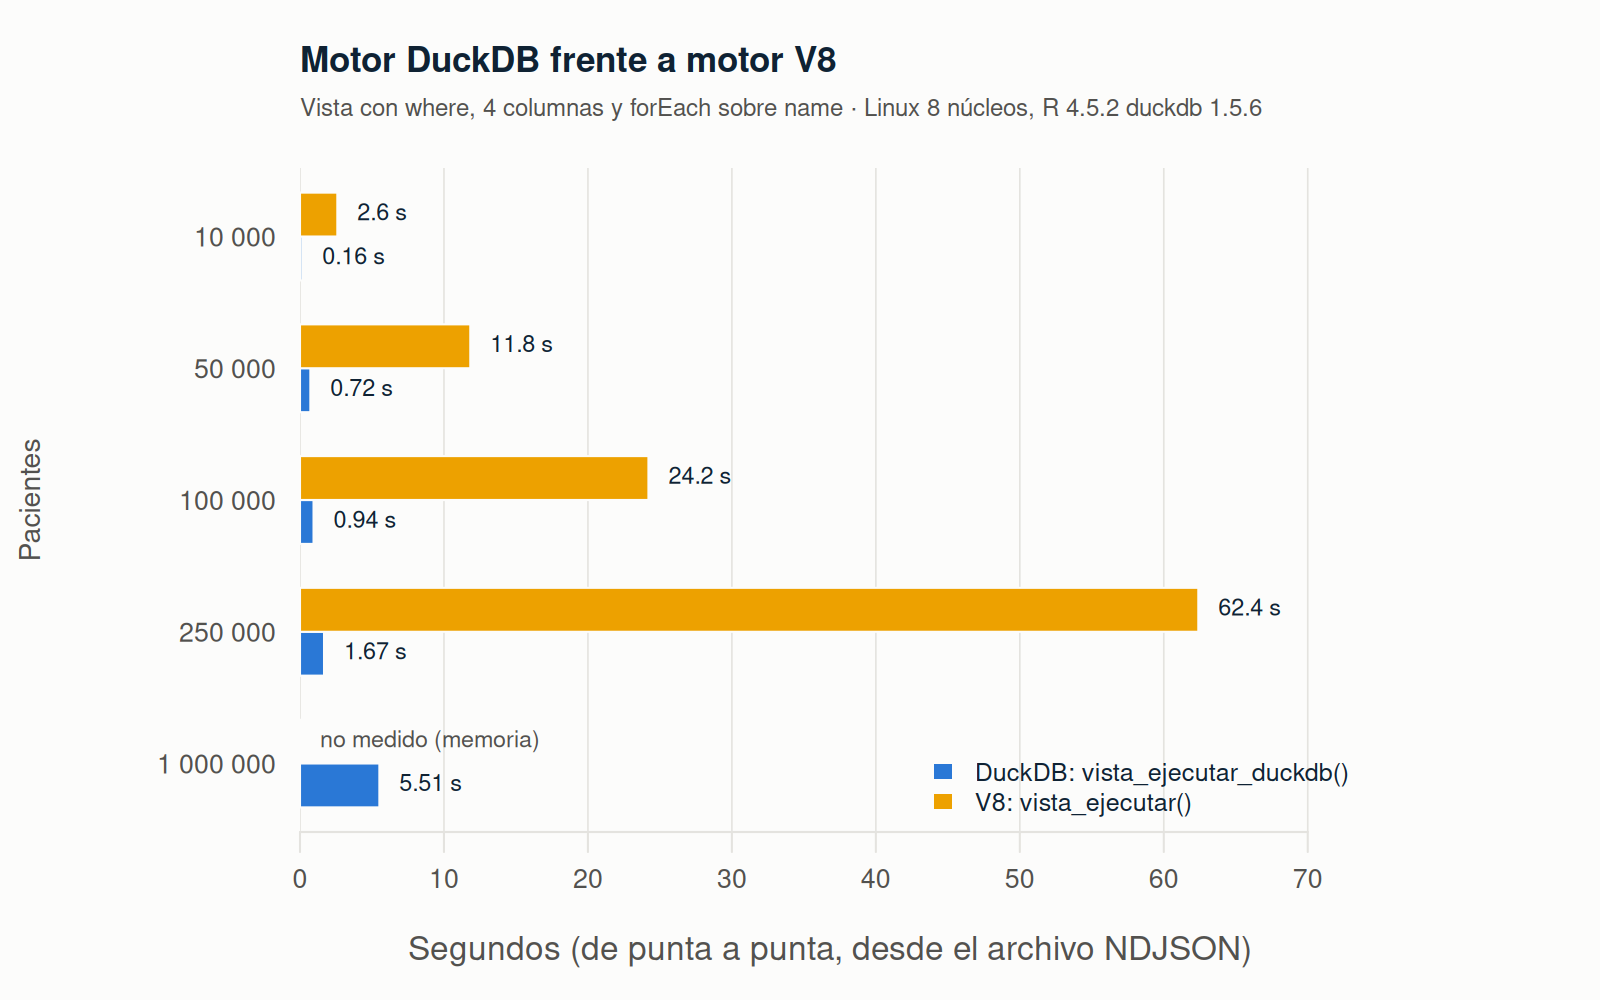
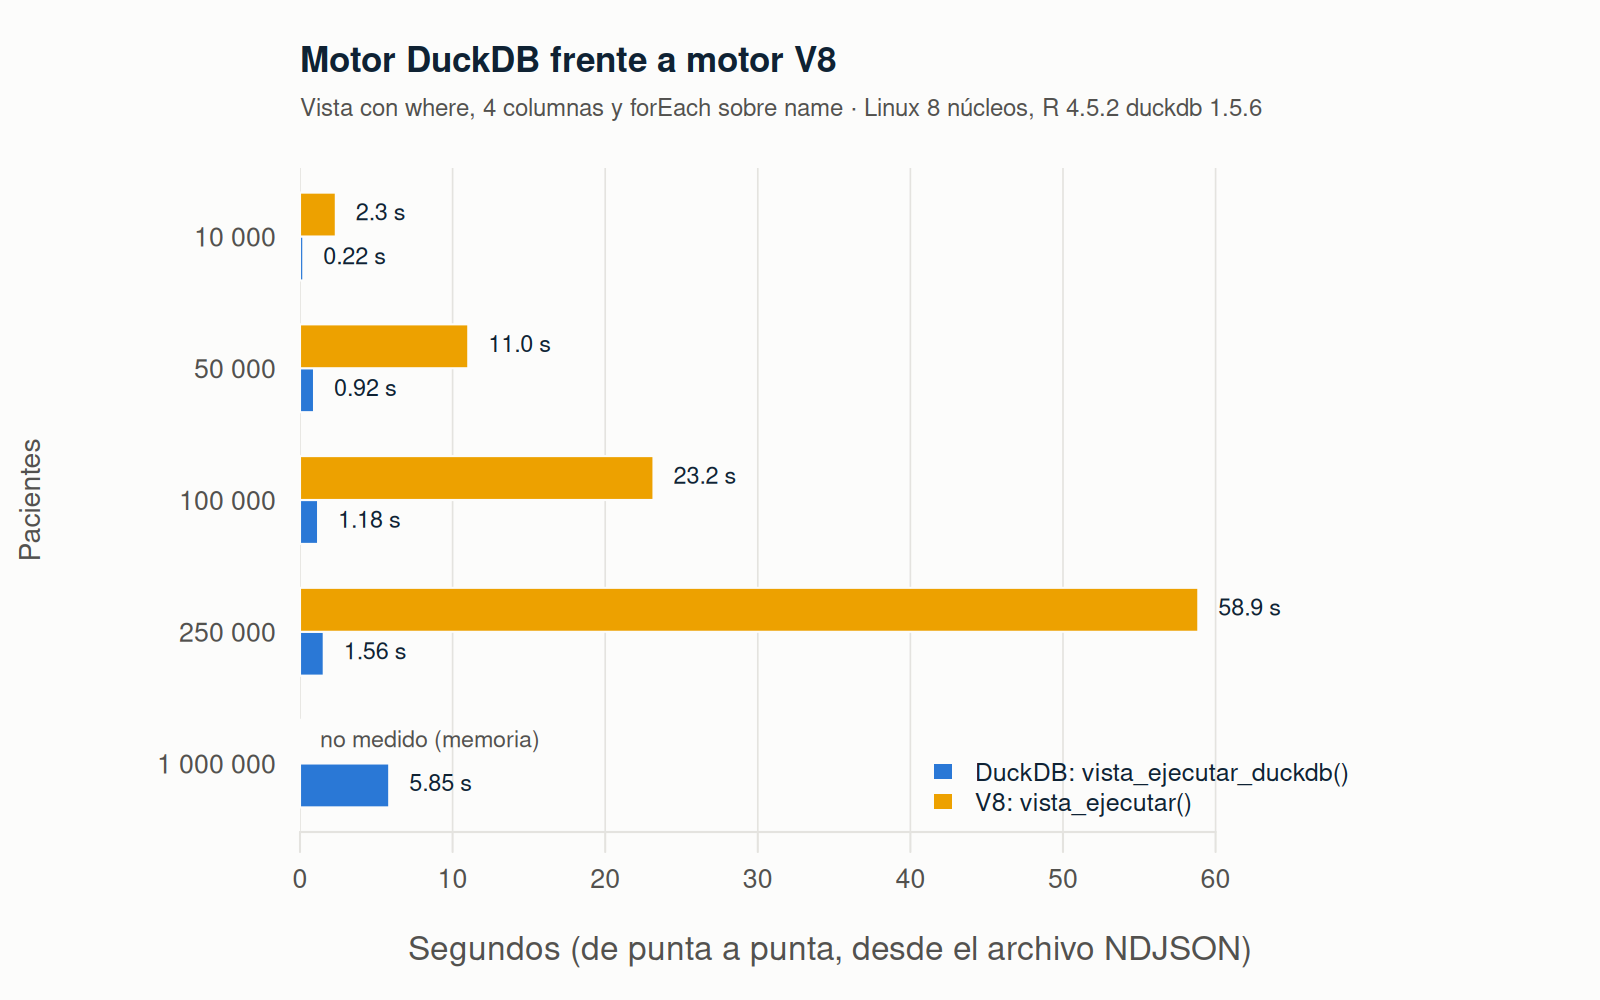
Inventario de FHIRPath del motor DuckDB, nueva medición y documentación
- data-raw/motor-duckdb.md: inventario de FHIRPath N1 y del perfil
  shareable, semántica, resultado diferido, conformidad (7 de 11
  experimentales) y rendimiento.
- README, viñeta de servidores y volúmenes y figura de rendimiento.

diff --git a/data-raw/motor-duckdb.md b/data-raw/motor-duckdb.md
@@ -1,6 +1,7 @@
-# Motor DuckDB para fhirviews: informe del prototipo
+# Motor DuckDB para fhirviews: informe
 
-Rama `motor-duckdb`. Código en `R/sql.R`, pruebas en
+Código en `R/sql.R` (estructura del `ViewDefinition` y ejecución) y
+`R/sql-fhirpath.R` (traductor de FHIRPath), pruebas en
 `tests/testthat/test-sql.R`, medición en `data-raw/motor-duckdb.R` (resultados
 en `data-raw/motor-duckdb.csv`).
 
@@ -13,13 +14,21 @@ en `data-raw/motor-duckdb.csv`).
 * **Conformidad: 133 de 133 pruebas shareable** del banco oficial
   (`vista_conformidad(motor = "duckdb")`), las mismas que el motor V8,
   incluidos `repeat`, `%rowIndex`, `unionAll` anidado y los errores
-  esperados. De las 11 experimentales pasan 3 (las de `join()`); fallan las 8
-  de `lowBoundary()`/`highBoundary()`, que no se traducen.
-* **Rendimiento:** con 50 000 pacientes en NDJSON, 0,6 s frente a 10,8 s de
-  `vista_ejecutar()` (17 veces más rápido); con 250 000, 1,3 s frente a 55 s
-  (41 veces); con 1 000 000 (271 MB, 1,8 millones de filas), 4,5 s y 1,3 GB
-  de memoria máxima del proceso, un volumen que el motor V8 no alcanza en
+  esperados, y **7 de las 11 experimentales**, también las mismas que V8
+  (fallan las de `lowBoundary()`/`highBoundary()` de decimales y de fechas y
+  horas con precisión de día; ver más abajo).
+* **FHIRPath:** traduce todo lo que exige el perfil shareable y la mayor
+  parte de FHIRPath N1 (inventario abajo), con la semántica de fhirpath.js.
+  Una prueba diferencial compara los dos motores con unas 110 expresiones con
+  casos límite (fechas parciales y zonas horarias, Unicode, tipos mezclados) y
+  con las vistas de todas las viñetas, y otras 19 comprueban que lo dudoso da
+  error.
+* **Rendimiento:** con 250 000 pacientes en NDJSON, 1,6 s frente a 59 s de
+  `vista_ejecutar()` (38 veces más rápido); con 1 000 000 (271 MB,
+  1,8 millones de filas), 5,8 s, un volumen que el motor V8 no alcanza en
   este portátil.
+* **Resultado diferido:** `vista_ejecutar_duckdb(..., diferido = TRUE)`
+  devuelve una tabla de dplyr sobre DuckDB.
 * Lo que no se puede traducir da un error de clase `fhirviews_error_sql` que
   nombra la expresión y sugiere `vista_ejecutar()`.
 * **Recomendación: incorporarlo** como motor opcional y experimental (DuckDB
@@ -41,9 +50,9 @@ de tres clases: colección (`JSON[]`, vacía si no hay valores), un valor JSON
 `DOUBLE`). La navegación `a.b` es `json_extract` sobre cada elemento, y los
 arreglos se aplanan; `where()`, `select()`, `exists(criterio)` y `all()` son
 `list_filter`/`list_transform` con una lambda cuyo foco es el elemento. Las
-comparaciones convierten al tipo del literal (texto, número, lógico); si
-ambos lados son rutas, comparan como números cuando los dos lo son y como
-texto en otro caso. Las fechas se comparan como texto ISO 8601.
+comparaciones miran el tipo de cada lado (del literal, del modelo FHIR o del
+valor JSON) y siguen las reglas de fhirpath.js descritas en
+[Semántica](#semántica-cómo-se-asegura-el-mismo-resultado-que-fhirpathjs).
 
 **Estructura del ViewDefinition como listas de filas.** Cada `select` se
 traduce en una expresión que da la lista de filas (`STRUCT` con una clave por
@@ -79,60 +88,174 @@ devuelve varios valores y un `where` que no devuelve un lógico llaman a
 `error()` de DuckDB, con un mensaje en español; llegan a R como
 `fhirviews_error_vista`.
 
-## Cobertura de FHIRPath
+## Inventario de FHIRPath
 
-| Se traduce | No se traduce (error que sugiere `vista_ejecutar()`) |
-|---|---|
-| Navegación por campos, `Patient.x`, `name[0]`, `$this`, `%resource` | `ofType()` con un tipo que el elemento de elección no admite |
-| `where`, `select`, `exists`, `all`, `empty`, `hasValue`, `count` | `lowBoundary`, `highBoundary`, `precision` |
-| `first`, `last`, `tail`, `skip`, `take`, `single`, `distinct` | `resolve`, `memberOf`, `conformsTo`, `trace`, `children`, `descendants` |
-| `not`, `iif`, `and`, `or`, `xor`, `implies` | Cantidades con unidades (`5 'mg'`) y aritmética de fechas |
-| `=`, `!=`, `~`, `!~`, `<`, `>`, `<=`, `>=` | `$index`, `$total`, `aggregate`, `repeat()` como función |
-| `+`, `-`, `*`, `/`, `div`, `mod`, `&`, `\|`, `in`, `contains` | `ofType()` de tipos complejos fuera de un elemento de elección |
-| Elementos de elección sin `ofType()` (`value`, `effective`, `onset`...) | `toDate`, `toDateTime`, `toQuantity`, `convertsTo*` |
-| `ofType` (elemento de elección o filtro de primitivos), `is`, `as` | |
-| `extension(url)`, `getResourceKey()`, `getReferenceKey([tipo])` | |
-| `join`, `startsWith`, `endsWith`, `contains`, `matches`, `upper`, `lower`, `trim`, `length`, `substring`, `replace`, `toString`, `toInteger`, `toDecimal` | |
-| Constantes de todos los tipos de `constant`, `%rowIndex`, literales de fecha | |
+Funciones y operadores de la especificación
+[FHIRPath N1 (2.0.0)](https://hl7.org/fhirpath/N1/), las que agrega FHIR R4
+y SQL on FHIR, y las de FHIRPath 3.0 que usa el banco (`lowBoundary()`,
+`highBoundary()`). La columna *shareable* marca lo que el perfil
+[*Shareable View Definition*](https://sql-on-fhir.org/ig/latest/StructureDefinition-ShareableViewDefinition.html)
+exige a toda implementación (literales, `=`, `!=`, `<`, `<=`, `>`, `>=`,
+`and`, `or`, `not()`, aritmética, `[]`, `exists()`, `empty()`,
+`extension()`, `first()`, `join()`, `lowBoundary()`, `highBoundary()`,
+`ofType()`, `where()`, `getResourceKey()` y `getReferenceKey()`).
 
-**Elementos de elección.** Al navegar a un nombre que en el modelo FHIR R4
-es un elemento de elección en algún recurso (`value`, `effective`, `onset`,
-`deceased`, `multipleBirth`...), se extraen a la vez, con un solo
-`json_extract` de varias rutas, el campo y todas sus variantes
-(`valueQuantity`, `valueString`...); los nombres salen de
-`choiceTypePaths` del modelo de fhirpath.js. `x.ofType(T)` sobre un elemento
-de elección es el campo `xT` solo si `T` es uno de sus tipos; en otro caso,
-o con un tipo complejo fuera de un elemento de elección, la traducción falla
-con `fhirviews_error_sql` en lugar de devolver vacío.
+Sí: se traduce y da lo mismo que fhirpath.js. Parcial: se traduce en los
+casos indicados y en los demás da error (nunca otro resultado). No: error
+`fhirviews_error_sql` al traducir.
 
-Diferencias semánticas conocidas frente a fhirpath.js (no afectan al banco):
+| Sección | Función u operador | Shareable | DuckDB |
+|---|---|:-:|---|
+| 5.1 Existencia | `empty()`, `exists([criterio])`, `count()` | sí | Sí |
+| | `all()`, `allTrue()`, `anyTrue()`, `allFalse()`, `anyFalse()` | | Sí |
+| | `subsetOf()`, `supersetOf()`, `distinct()`, `isDistinct()` | | Sí (los elementos complejos no se comparan: error) |
+| 5.2 Filtros | `where()` | sí | Sí |
+| | `select()` | | Sí |
+| | `ofType()` | sí | Parcial: elementos de elección, tipos del modelo y `boolean` |
+| | `repeat()` (función) | | No (el `repeat` del ViewDefinition sí) |
+| 5.3 Subconjuntos | `[i]` | sí | Sí |
+| | `first()` | sí | Sí |
+| | `single()`, `last()`, `tail()` | | Sí |
+| | `skip()`, `take()` | | Sí (número negativo: error, fhirpath.js usa `slice()`) |
+| | `intersect()`, `exclude()` | | Sí |
+| 5.4 Combinación | `union()`, `\|`, `combine()` | | Sí, conservando el orden |
+| 5.5 Conversión | `iif()` | | Sí |
+| | `toBoolean()`, `toInteger()`, `toDecimal()`, `toString()` y sus `convertsTo...()` | | Sí (`toString()` de elementos complejos: error) |
+| | `toDate()`, `toDateTime()`, `toTime()`, `toQuantity()` y sus `convertsTo...()` | | No |
+| 5.6 Texto | `startsWith()`, `endsWith()`, `contains()`, `substring()`, `indexOf()`, `length()`, `toChars()` | | Sí (caracteres fuera del plano básico: error) |
+| | `upper()`, `lower()` | | Sí (los ~500 caracteres que DuckDB convierte distinto, como `ß`: error) |
+| | `replace()` | | Sí (`$` en el reemplazo: error) |
+| | `matches()`, `replaceMatches()` | | Parcial: expresión regular literal sin construcciones que JavaScript y RE2 lean distinto (`\s`, grupos con nombre, referencias...) |
+| | `trim()`, `split()`, `join()` | sí (`join`) | Sí |
+| 5.7 Matemática | `abs()`, `ceiling()`, `floor()`, `round()`, `truncate()`, `sqrt()` | | Sí |
+| | `power()` | | Parcial: enteros con resultado exacto |
+| | `exp()`, `ln()`, `log()` | | No (libm y V8 pueden diferir en el último bit) |
+| 5.8 Árbol | `children()`, `descendants()` | | No |
+| 5.9 Utilidad | `trace()` | | Sí (no escribe nada) |
+| | `now()`, `today()`, `timeOfDay()` | | No |
+| 6.1 Igualdad | `=`, `!=` | sí | Sí (elementos complejos: error) |
+| | `~`, `!~` | | Sí con textos, lógicos y fechas; con números, no |
+| 6.2 Comparación | `<`, `<=`, `>`, `>=` | sí | Sí, con la regla de precisión de fechas y horas |
+| 6.3 Tipos | `is`, `as`, `is()`, `as()` | | Como `ofType()` |
+| 6.4 Colecciones | `in`, `contains` | | Sí |
+| 6.5 Lógica | `and`, `or`, `not()` | sí | Sí |
+| | `xor`, `implies` | | Sí |
+| 6.6 Aritmética | `+`, `-`, `*`, `/`, `div`, `mod` | sí | Sí con números y textos (`+`) |
+| | `&` | | Sí |
+| 6.6 Fechas | `fecha + cantidad` | | No |
+| Literales | texto, entero, decimal, lógico, `{}` | sí | Sí |
+| | `@fecha`, `@fechaThora`, `@Thora` | sí | Sí |
+| | cantidades (`5 'mg'`) | | No |
+| 7 Agregados | `aggregate()`, `$index`, `$total` | | No |
+| FHIR | `extension(url)` | sí | Sí |
+| | `hasValue()` | | Sí |
+| | `resolve()`, `memberOf()`, `conformsTo()`, `htmlChecks()` | | No |
+| SQL on FHIR | `getResourceKey()`, `getReferenceKey([tipo])` | sí | Sí |
+| FHIRPath 3.0 | `lowBoundary()`, `highBoundary()` | sí | Parcial: fechas, horas y fechas y horas con hora y zona; decimales y fechas y horas con precisión de día, no |
+| | `precision()` | | No |
+| Variables | `%resource`, `%rootResource`, `%rowIndex`, constantes | sí | Sí |
 
-* Las fechas y horas se comparan como texto: `birthDate > @1940-01-01` es
-  correcto con fechas de la misma precisión, pero `@2020` frente a
-  `@2020-05-01` no da vacío como en FHIRPath.
-* Los decimales son `DOUBLE` (0.1 + 0.2 no es exactamente 0.3).
-* `|` no conserva el orden de los elementos.
-* `~` solo ignora mayúsculas y espacios de los extremos.
-* Las extensiones de primitivos (`_birthDate`) no se ven.
+Antes de esta versión el motor no traducía los conjuntos (`union()`,
+`intersect()`...), `allTrue()` y afines, `indexOf()`, `replaceMatches()`,
+`split()`, `toChars()`, `toBoolean()`, `convertsTo...()`, las funciones
+matemáticas ni `lowBoundary()`/`highBoundary()`; y varias de las que sí (`toInteger()`, `substring()`, `replace()`, `|`, `iif()`, las
+comparaciones de fechas y entre tipos distintos) daban en casos límite un
+resultado distinto del de fhirpath.js sin avisar. La prueba diferencial
+nueva los encontró y se corrigieron.
+
+## Semántica: cómo se asegura el mismo resultado que fhirpath.js
+
+**Tipos del modelo FHIR.** Cada expresión traducida lleva el tipo FHIR que da
+el modelo R4 de fhirpath.js (`path2Type`, `choiceTypePaths`...), seguido al
+navegar como lo hace `fhirviews.tipo()`. Con él se eligen solo las variantes
+posibles de cada elemento de elección (`Observation.value` busca 11 campos,
+no los 50 de todos los recursos) y se sabe si un texto es un `string`, una
+fecha o una hora. Si el tipo no se conoce (por ejemplo, `extension.value`
+sin `ofType()`) y un texto parece una fecha, la consulta da error.
+
+**Igualdad y orden.** Como en fhirpath.js: valores de tipos distintos no son
+iguales (`'1' = 1` y `birthDate = '1970-06-15'` son falsos) y no se pueden
+ordenar (error); los números se comparan redondeados a 8 decimales
+(`0.1 + 0.2 = 0.3` es verdadero) y los enteros, como enteros; `~` entre
+textos pasa a mayúsculas y cambia los espacios de Unicode por espacios; los
+elementos complejos no se comparan (error).
+
+**Fechas y horas.** Se compara la forma canónica de cada valor (en UTC si
+tiene zona horaria) en la precisión común: si difieren, decide el orden; si
+coinciden y tienen la misma precisión, son iguales; si no, el resultado es
+vacío (`@2024 < @2024-06` no es verdadero ni falso). Segundos y milisegundos
+son la misma precisión, como en fhirpath.js, y otros números de decimales dan
+error. Dos casos dependen en fhirpath.js de la zona horaria del equipo y por
+eso solo se traducen si el resultado sería el mismo en cualquier zona (de
+−12 a +14 horas): una fecha con hora sin zona frente a una con zona, y una
+fecha sin hora frente a una fecha y hora. Así,
+`effective.ofType(dateTime) > @2024-03-01` da error con las observaciones
+cercanas a la medianoche de ese día; la forma segura es
+`effective.ofType(dateTime) > @2024-03-01T00:00:00Z`.
+
+**Conjuntos.** `|`, `union()`, `distinct()`, `intersect()`, `in`... usan una
+clave de igualdad por elemento (tipo y valor; números redondeados como en la
+igualdad; fechas con hora en UTC) y conservan el orden de la primera
+aparición, como fhirpath.js. Dos elementos complejos distintos no se pueden
+comparar con certeza (fhirpath.js los compara campo a campo): error.
+
+**Texto.** JavaScript cuenta los caracteres fuera del plano básico (emojis)
+como dos, así que `length()`, `substring()`, `indexOf()` y `toChars()` dan
+error con ellos. `upper()`, `lower()` y `~` dan error con los caracteres que
+DuckDB convierte distinto (`data-raw/mayusculas.R` los calcula recorriendo
+Unicode; una prueba revisa el plano básico hasta U+2FFF). `trim()` quita los
+mismos espacios que JavaScript. `matches()` y `replaceMatches()` traducen la
+expresión regular (con las banderas `su` de fhirpath.js) solo si usa
+construcciones que significan lo mismo en RE2; `\d`, `\w` y `\b` son ASCII
+en los dos.
+
+**Números.** Los decimales son `DOUBLE`, como los números de JavaScript.
+`toString()` escribe los números como JavaScript (`3.0` es `"3"`, salvo un
+literal decimal, que conserva su texto como en fhirpath.js). `round()`
+redondea las mitades hacia +∞ como `Math.round()`. Una columna sin tipo cuyos
+valores son todos enteros llega a R como entero, como en `vista_ejecutar()`.
+
+## Resultado diferido
+
+`vista_ejecutar_duckdb(archivos, vista, diferido = TRUE)` devuelve
+`dplyr::tbl(con, dplyr::sql(consulta))` (dplyr y dbplyr en Suggests): los
+filtros, agrupaciones y resúmenes de dplyr se traducen a SQL y se calculan en
+DuckDB sobre los archivos, sin traer las filas a R.
+
+```r
+casos <- vista_ejecutar_duckdb("exportacion/*.ndjson", vista, diferido = TRUE)
+casos |> dplyr::filter(sexo == "female") |> dplyr::count(canton) |> dplyr::collect()
+DBI::dbDisconnect(dbplyr::remote_con(casos))
+```
+
+Las columnas sin tipo deducible se resuelven al crear la tabla (una lectura
+de los datos); la conexión queda abierta mientras se use la tabla. Al hacer
+`collect()`, los elementos complejos llegan como texto JSON y las colecciones
+como listas de DuckDB.
 
 ## Conformidad
 
 ```
 vista_conformidad(motor = "duckdb")
 Banco de pruebas de SQL on FHIR (FHIR/sql-on-fhir.js@6677c20, 2026-07-09)
-fhirviews 0.1.0 · motor DuckDB 1.5.6
+fhirviews 0.2.0.9000 · motor DuckDB 1.5.6
 
-  experimental     3 de  11 aprobadas
+  experimental     7 de  11 aprobadas
   shareable      133 de 133 aprobadas
-  total          136 de 144 aprobadas
+  total          140 de 144 aprobadas
 ```
 
 Pasan todos los archivos shareable: basic (11), collection (4), combinations
 (6), constant (8), constant_types (14), fhirpath (9), fhirpath_numbers (1),
 fn_empty (1), fn_extension (2), fn_first (2), fn_oftype (2),
 fn_reference_keys (3), foreach (13), logic (3), repeat (19), row_index (9),
-union (10), validate (5), view_resource (3) y where (8). El motor V8 pasa
-7 de las 11 experimentales.
+union (10), validate (5), view_resource (3) y where (8). De las
+experimentales pasan las 3 de `join()` y 4 de `fn_boundary.json` (fecha y
+hora), las mismas que el motor V8. Las otras 4 esperan lo que fhirpath.js no
+da: `1.0.lowBoundary()` = 0.95 (la precisión del decimal se pierde al leer el
+JSON en los dos motores) y la zona +14:00/−12:00 en los límites de una fecha
+y hora con precisión de día (fhirpath.js no la agrega); el motor DuckDB da
+error en esos casos en lugar de copiar el resultado de fhirpath.js.
 
 ## Rendimiento
 
@@ -145,9 +268,17 @@ el mismo `data.frame` (comprobado con `all.equal()`).
 
 | Pacientes | NDJSON | Filas | DuckDB, tabla | DuckDB, `data.frame` | V8 (`fhir_recursos()` + `vista_ejecutar()`) |
 |---:|---:|---:|---:|---:|---:|
-| 50 000 | 13 MB | 89 180 | 0,65 s | 0,64 s | 10,8 s |
-| 250 000 | 67 MB | 444 942 | 1,16 s | 1,34 s | 55,4 s |
-| 1 000 000 | 271 MB | 1 781 318 | 4,43 s | 4,53 s | no medido |
+| 10 000 | 3 MB | 17 824 | 0,42 s | 0,22 s | 2,3 s |
+| 50 000 | 13 MB | 89 128 | 0,89 s | 0,92 s | 11,0 s |
+| 100 000 | 27 MB | 178 062 | 1,18 s | 1,18 s | 23,2 s |
+| 250 000 | 67 MB | 444 912 | 1,63 s | 1,56 s | 58,9 s |
+| 1 000 000 | 271 MB | 1 780 958 | 5,71 s | 5,85 s | no medido |
+
+Medición de la versión 0.2.0.9000 (`Rscript data-raw/motor-duckdb.R
+10000,50000,100000,250000,1000000 250000`). Frente a la 0.2.0 (5,5 s con un
+millón), las comparaciones de fechas con su precisión y la conversión de
+tipos cuestan unas décimas de segundo; con 10 000 recursos pesa más la carga
+del modelo FHIR, que se hace una vez por sesión.
 
 Equipo: Linux, 8 núcleos, 14 GB de RAM (unos 4 GB libres), R 4.5.2,
 duckdb 1.5.6. Una corrida de cada motor; DuckDB después de una de
@@ -184,6 +315,18 @@ ejecuta con los dos motores sobre `inst/extdata` y exige tablas idénticas
 idénticas, las colecciones vacías sin `type` se devuelven como `logical()`,
 como en `vista_ejecutar()`.
 
+En la versión 0.2.0.9000 la prueba diferencial se amplió con unas 110
+expresiones de FHIRPath sobre recursos con casos límite (fechas de distinta
+precisión y zona, decimales, textos con `ñ`, `ß`, `Σ` y emojis, valores de
+tipos mezclados) y 19 casos que deben dar error. Al escribirla aparecieron
+divergencias silenciosas en funciones que el motor ya traducía, por ejemplo:
+`'0901'.toInteger()` daba vacío (fhirpath.js: 901) y `1.5.toInteger()` daba 2
+(vacío); `substring(10)` daba `""` (vacío); `name.given | name.family`
+cambiaba el orden; `birthDate = '1970-06-15'` daba verdadero (falso: fecha
+frente a texto); `@2024-03-01 = effective` con `"2024-03-01T10:15:00Z"` daba
+falso (vacío por la precisión); `iif('a', 1, 2)` daba 1 (2). Todas siguen ahora
+a fhirpath.js o dan error.
+
 ## Comparación con otras implementaciones
 
 * **FlatQuack** (MIT, JavaScript/Bun) también compila ViewDefinition a SQL de
@@ -214,15 +357,15 @@ como en `vista_ejecutar()`.
 Incorporarlo como segundo motor, marcado como experimental:
 
 1. Cumple la especificación en el mismo grado que el motor V8 en las pruebas
-   shareable y es de 17 a 41 veces más rápido en lo medido, con memoria acotada por
+   shareable y experimentales y es de 11 a 38 veces más rápido en lo medido, con memoria acotada por
    DuckDB y no por la sesión de R. Es el diferenciador que buscaba el
    paquete: SQL on FHIR para millones de recursos en un portátil, desde CRAN
    y sin Spark.
 2. Mantener `vista_ejecutar()` como motor por defecto y de referencia
    (FHIRPath completo); el error de traducción ya dirige a él.
 3. Próximos pasos: un argumento `motor = "duckdb"` en `vista_duckdb()`;
-   seguir el tipo FHIR de cada expresión con el modelo R4 (para elegir solo
-   las variantes posibles de cada elemento de elección y comparar fechas con
-   su precisión); macros opcionales para un SQL más
-   legible; probar con datos de Synthea (Observation, Encounter) y con
-   Parquet de otras herramientas.
+   distinguir el tipo de los elementos de elección por el campo JSON del que
+   salen (para comparar `extension.value` sin `ofType()`); `toDate()`,
+   `toDateTime()`, `today()` y aritmética de fechas con cantidades; macros
+   opcionales para un SQL más legible; probar con datos de Synthea
+   (Observation, Encounter) y con Parquet de otras herramientas.

diff --git a/README.md b/README.md
@@ -409,8 +409,7 @@ El paquete incluye el
 [banco oficial de pruebas](https://github.com/FHIR/sql-on-fhir.js/tree/main/tests)
 de SQL on FHIR, que se ejecuta en cada comprobación de integración continua.
 Pasan **las 133 pruebas del perfil *shareable*** (el que debe cumplir toda
-implementación) con los dos motores, y 7 de las 11 experimentales con el motor
-V8 (3 con el motor DuckDB).
+implementación) y 7 de las 11 experimentales con los dos motores.
 
 <img src="man/figures/README-conformidad.png" width="80%" alt="Barras por archivo del banco de pruebas: todas las pruebas shareable aprobadas; en fn_boundary, 4 de 8 pruebas experimentales fallan" />
 
@@ -436,21 +435,25 @@ fhirviews tiene dos motores para ejecutar la misma vista:
   y la ejecuta directamente sobre los archivos, en paralelo y sin cargarlos en
   R. Es el que conviene para volúmenes grandes.
 
-<img src="man/figures/README-rendimiento.png" width="90%" alt="Barras agrupadas por número de pacientes: el motor DuckDB tarda 0,16 s con 10 000 pacientes, 1,67 s con 250 000 y 5,5 s con un millón; el motor V8 tarda 2,6 s, 62,4 s y no se midió con un millón" />
+<img src="man/figures/README-rendimiento.png" width="90%" alt="Barras agrupadas por número de pacientes: el motor DuckDB tarda 0,22 s con 10 000 pacientes, 1,56 s con 250 000 y 5,8 s con un millón; el motor V8 tarda 2,3 s, 58,9 s y no se midió con un millón" />
 
 | Pacientes | Filas | Motor V8 | Motor DuckDB | Veces más rápido |
 |---:|---:|---:|---:|---:|
-| 10 000 | 17 824 | 2,6 s | 0,16 s | 16 |
-| 50 000 | 89 128 | 11,8 s | 0,72 s | 16 |
-| 100 000 | 178 062 | 24,2 s | 0,94 s | 26 |
-| 250 000 | 444 912 | 62,4 s | 1,67 s | 37 |
-| 1 000 000 | 1 780 958 | — | 5,5 s | — |
+| 10 000 | 17 824 | 2,3 s | 0,22 s | 11 |
+| 50 000 | 89 128 | 11,0 s | 0,92 s | 12 |
+| 100 000 | 178 062 | 23,2 s | 1,18 s | 20 |
+| 250 000 | 444 912 | 58,9 s | 1,56 s | 38 |
+| 1 000 000 | 1 780 958 | — | 5,8 s | — |
 
 Tiempo de punta a punta, desde el archivo NDJSON hasta el `data.frame`, con
 pacientes sintéticos y una vista con `where`, cuatro columnas y `forEach` sobre
 `name` (`data-raw/motor-duckdb.R`; Linux, 8 núcleos, R 4.5.2, duckdb 1.5.6).
 Ambos motores dan tablas idénticas: las pruebas del paquete los comparan con
-las vistas de todas las viñetas. Con el motor V8, los recursos que llegan como
+las vistas de todas las viñetas y con más de 100 expresiones de FHIRPath, y lo
+que el motor DuckDB no puede traducir con certeza da un error en lugar de un
+resultado distinto. Con `vista_ejecutar_duckdb(..., diferido = TRUE)` el
+resultado queda como tabla de dplyr sobre DuckDB, para filtrar y resumir sin
+traer todas las filas a R. Con el motor V8, los recursos que llegan como
 JSON (de un servidor, de `$export` o de un archivo) pasan el texto original
 directamente a V8; los armados como listas de R son unas cuatro veces más
 lentos porque deben convertirse a JSON.
